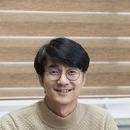
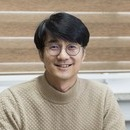
첫 화면 배너 크기 제한, 김대영 교수 사진 크롭 조정
배너 — 넓은 모니터에서 사진이 화면을 다 덮어 아래 발간사가 보이지 않았다.
배너에 캘리그래피가 박혀 있어 세로로 자르면 글씨가 잘리므로, 자르지 않고
크기만 줄인다. 2.22:1이라 폭을 min(960px, 89vh)로 묶으면 높이가 화면의
40%로 고정된다. 1280x620 ~ 1920x1080 여섯 크기에서 발간사가 첫 화면에
걸리는 것을 확인했다. 좌우 여백은 위아래 초록 띠와 같은 색으로 채웠다.
모바일(≤640px)은 종전대로 꽉 찬 채 둔다.

김대영 교수 사진 — 머리가 원 아래쪽에 치우쳐 크롭 창을 25px 내렸다
(눈높이가 위에서 약 36%로 오는 자리).

diff --git a/2026/index.html b/2026/index.html
@@ -171,6 +171,23 @@ nav.site-nav {
     width: 100%;
     line-height: 0;
 }
+/* 넓은 모니터에서 배너가 화면을 다 덮어 아래 발간사가 보이지 않았다.
+   캘리그래피가 사진 안에 박혀 있어 세로로 자르면 글씨가 잘리므로,
+   자르지 않고 본문 폭까지만 키운다. 모바일은 그대로 꽉 채운다.
+   (PI 2026-09-21) */
+@media (min-width: 641px) {
+    /* 배너 자체는 화면 끝까지 두어 좌우 여백이 위아래 초록 띠와 이어지게 하고,
+       사진만 줄인다. 배너는 2.22:1이라 폭을 89vh로 묶으면 높이가 화면의 40%를
+       넘지 않아, 세로가 짧은 노트북에서도 아래 발간사가 첫 화면에 걸린다. */
+    .masthead-hero-img {
+        background: var(--green-dark);
+        text-align: center;
+    }
+    .masthead-hero-img img {
+        max-width: min(var(--max-width), 89vh);
+        margin: 0 auto;
+    }
+}
 .masthead-hero-img img {
     width: 100%;
     height: auto;

diff --git a/build.py b/build.py
@@ -968,6 +968,23 @@ nav.site-nav {
     width: 100%;
     line-height: 0;
 }
+/* 넓은 모니터에서 배너가 화면을 다 덮어 아래 발간사가 보이지 않았다.
+   캘리그래피가 사진 안에 박혀 있어 세로로 자르면 글씨가 잘리므로,
+   자르지 않고 본문 폭까지만 키운다. 모바일은 그대로 꽉 채운다.
+   (PI 2026-09-21) */
+@media (min-width: 641px) {
+    /* 배너 자체는 화면 끝까지 두어 좌우 여백이 위아래 초록 띠와 이어지게 하고,
+       사진만 줄인다. 배너는 2.22:1이라 폭을 89vh로 묶으면 높이가 화면의 40%를
+       넘지 않아, 세로가 짧은 노트북에서도 아래 발간사가 첫 화면에 걸린다. */
+    .masthead-hero-img {
+        background: var(--green-dark);
+        text-align: center;
+    }
+    .masthead-hero-img img {
+        max-width: min(var(--max-width), 89vh);
+        margin: 0 auto;
+    }
+}
 .masthead-hero-img img {
     width: 100%;
     height: auto;

diff --git a/tools/prepare_2026.py b/tools/prepare_2026.py
@@ -98,7 +98,9 @@ HWPX = [
 # 회원 소식에 넣을 인물 사진 — 얼굴이 원 중앙에 오도록 자른다.
 NEWS_PHOTOS = [
     ("강동호", "강동호 교수.jpg", (18, 0, 132, 114)),
-    ("김대영", "김대영 교수.jpg", (23, 23, 153, 153)),
+    # 머리가 원 아래쪽에 치우쳐 있어 크롭 창을 내렸다. 눈높이가 위에서 약 36%로
+    # 오는 자리다. (PI 2026-09-21)
+    ("김대영", "김대영 교수.jpg", (23, 48, 153, 178)),
     # 제주대신문 「마음을 다루는 심리학의 매력」(슬기로운 교수생활, 2024. 3.)의
     # 본문 사진. 원본이 150×183으로 작다 — 저자 카드가 104px 원형이라 겨우 맞는다.
     # ★ 본인에게 받은 사진이 생기면 교체. (PI 지시 2026-09-21)
